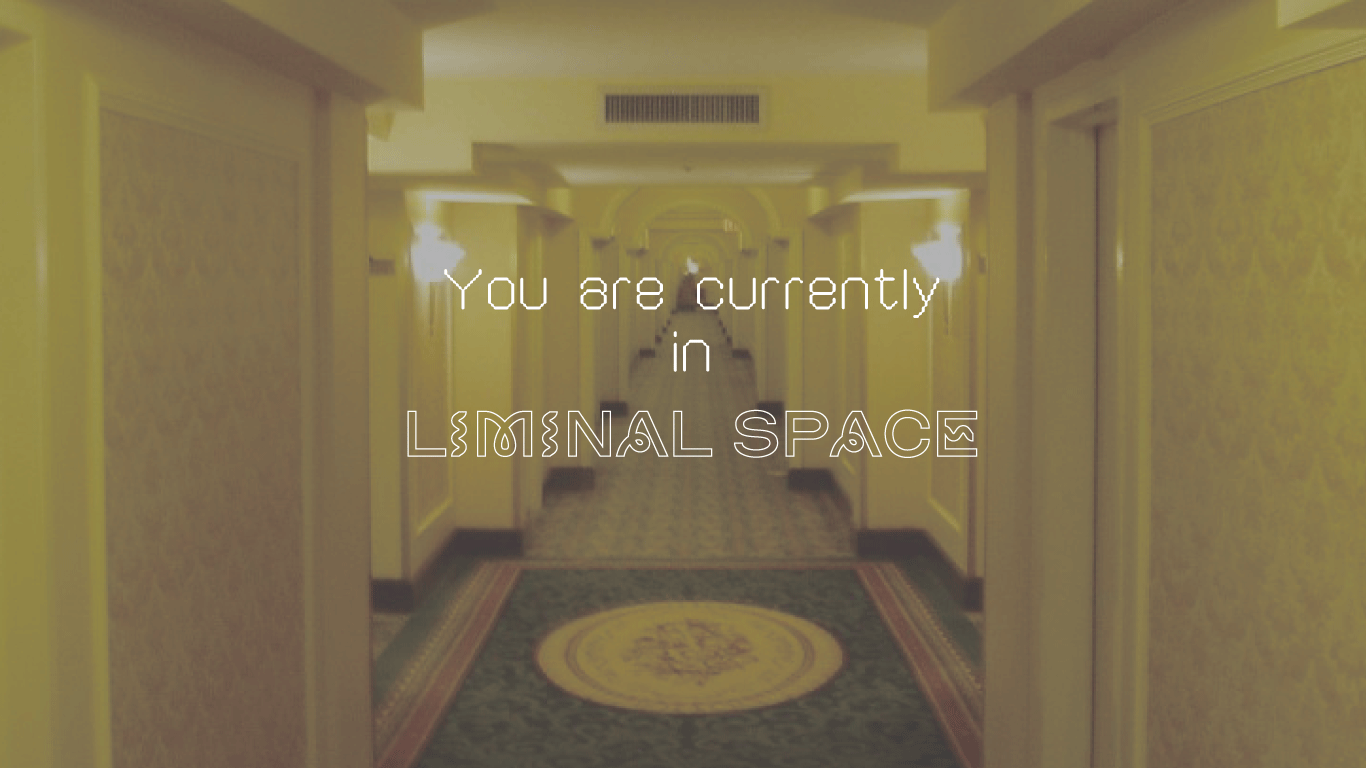
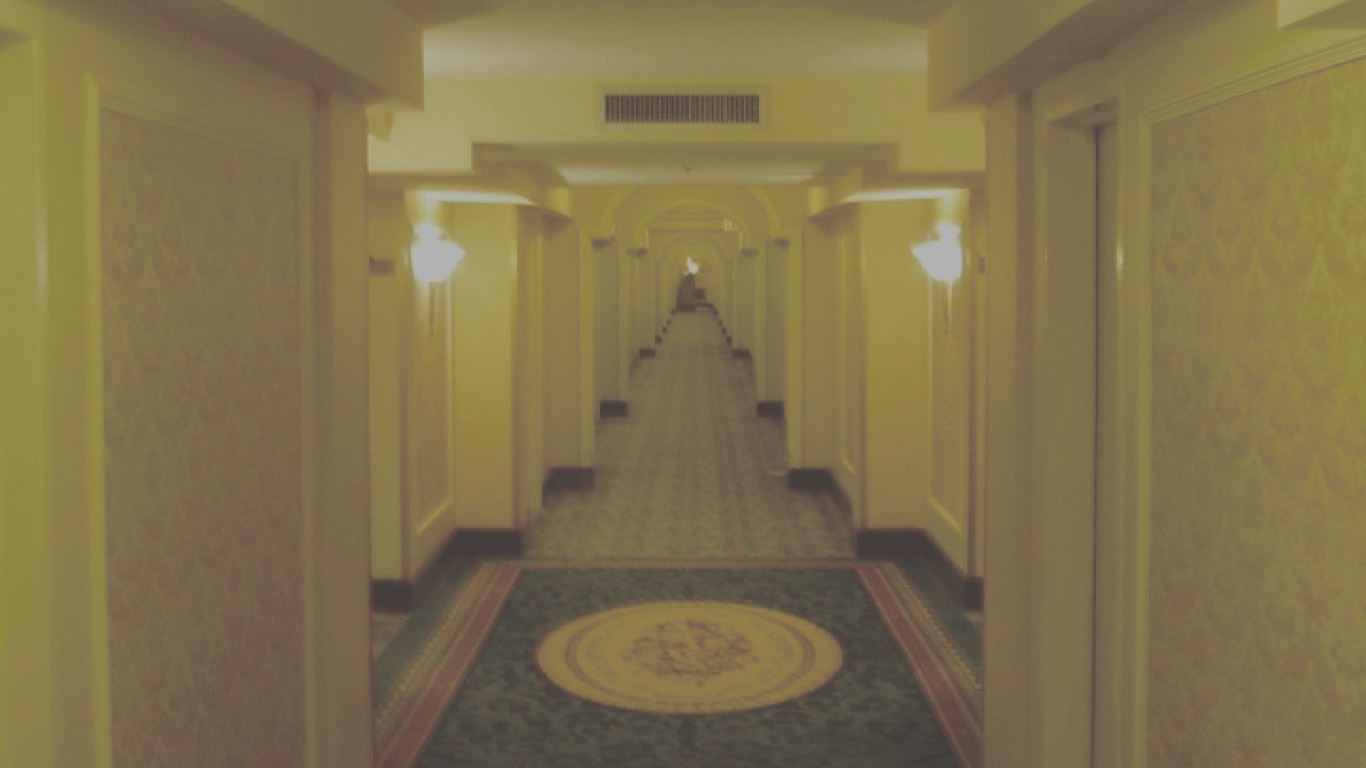
Add files via upload

diff --git a/style.css b/style.css
@@ -77,31 +77,35 @@ body {
   100% { transform: translate(0); }
 }
 
-/* ===== PC（デフォルト） ===== */
+/* ===== 背景画像 ===== */
 .hero {
   width: 100%;
-  height: 100vh; /* 画面いっぱい */
-  overflow: hidden;
-  background: #000;
+  height: 100vh;
+
+  background-image: url("Liminal.png");
+  background-size: cover;
+  background-position: center;
+  background-repeat: no-repeat;
+
+  display: flex;
+  justify-content: center;
+  align-items: center;
 }
 
-.hero-img {
-  width: 100%;
-  height: 100%;
-  object-fit: cover; /* 画面にフィット（トリミングあり） */
+/* ===== ロゴ（透過画像） ===== */
+.hero-logo {
+  width: 600px; /* PCサイズ */
+  max-width: 90%;
 }
 
-/* ===== スマホ ===== */
 @media (max-width: 768px) {
 
   .hero {
-    height: auto; /* 高さ固定を解除 */
+    height: 100vh; /* 背景はそのまま全画面 */
   }
 
-  .hero-img {
-    width: 100%;
-    height: auto; /* ←これが重要 */
-    object-fit: contain; /* 全体表示 */
+  .hero-logo {
+    width: 90%; /* 横幅に合わせる */
   }
 
 }

diff --git a/index.html b/index.html
@@ -2,6 +2,7 @@
 <html lang="ja">
 <head>
   <meta charset="UTF-8">
+  <meta name="viewport" content="width=device-width, initial-scale=1.0">
   <title>You are currently in LiminalSpace</title>
 
   <!-- font -->
@@ -23,9 +24,9 @@
  </div>
  </html>
 
-       <section class="hero">
-  <img src="Liminal.png" alt="Liminal Space" class="hero-img">
- </section>
+      <section class="hero">
+  <img src="Liminal2.png" class="hero-logo" alt="logo">
+</section>
 
        <section class="concept">
         <div class="wrapper">
